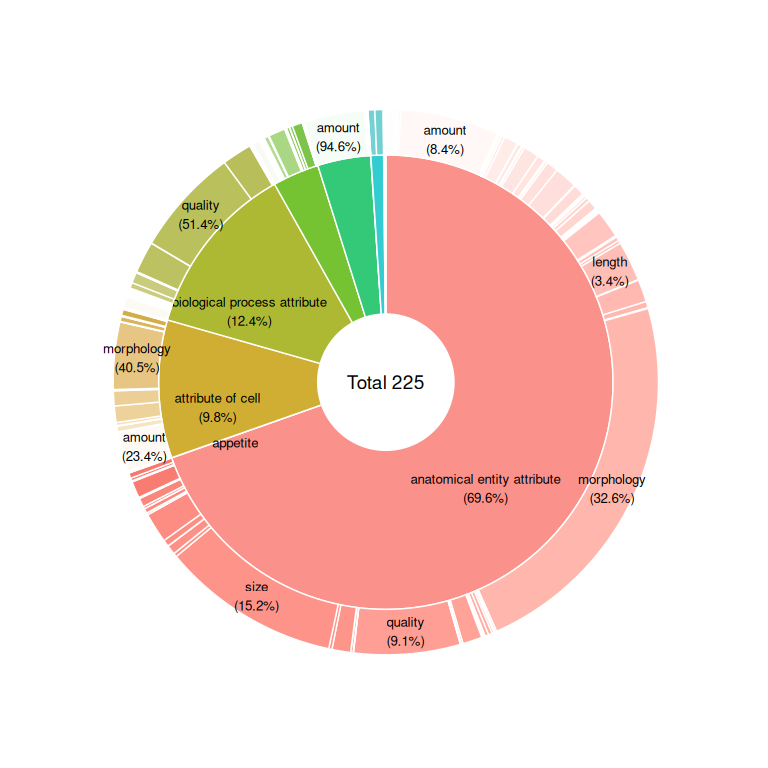
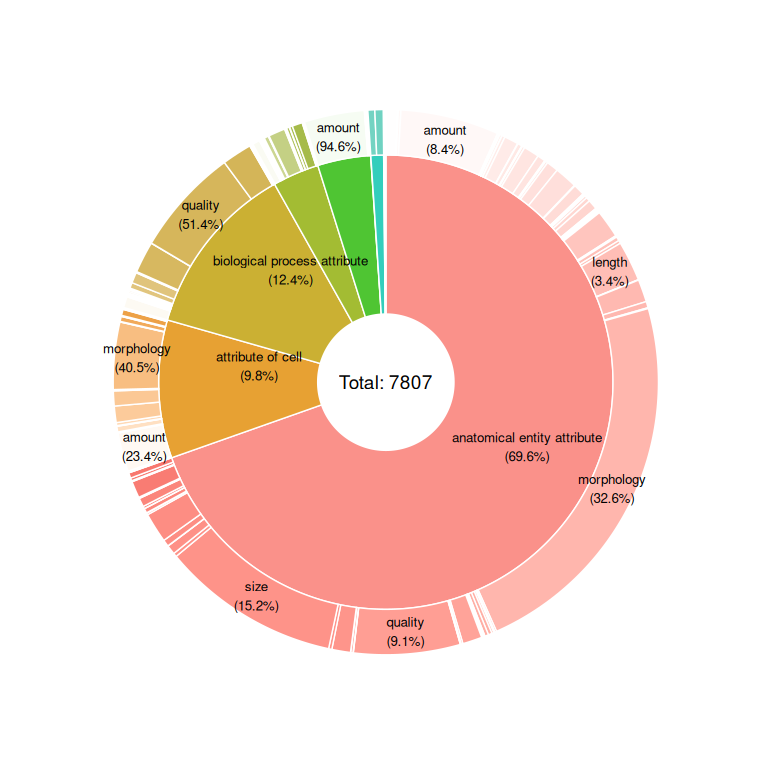
adding total terms

diff --git a/README.md b/README.md
@@ -23,7 +23,8 @@ df <- fread('./oba.csv')
 df_gb <- df %>%
   dplyr::group_by(grouping_label, attribute_label) %>%
   dplyr::summarise(n = sum(count)) %>%
-  dplyr::arrange(desc(n))
+  dplyr::arrange(desc(n)) %>%
+  dplyr::filter(grouping_label != 'appetite')
 
 PieDonut(
   df_gb,
@@ -33,7 +34,7 @@ PieDonut(
   donutLabelSize=3.5,
   pieLabelSize=3.5,
   showDonutName = F,
-  pieName=paste("Total", nrow(df)),
+  pieName=paste("Total: 7807"),
   ratioByGroup=T,
   r0=0.3,
   
